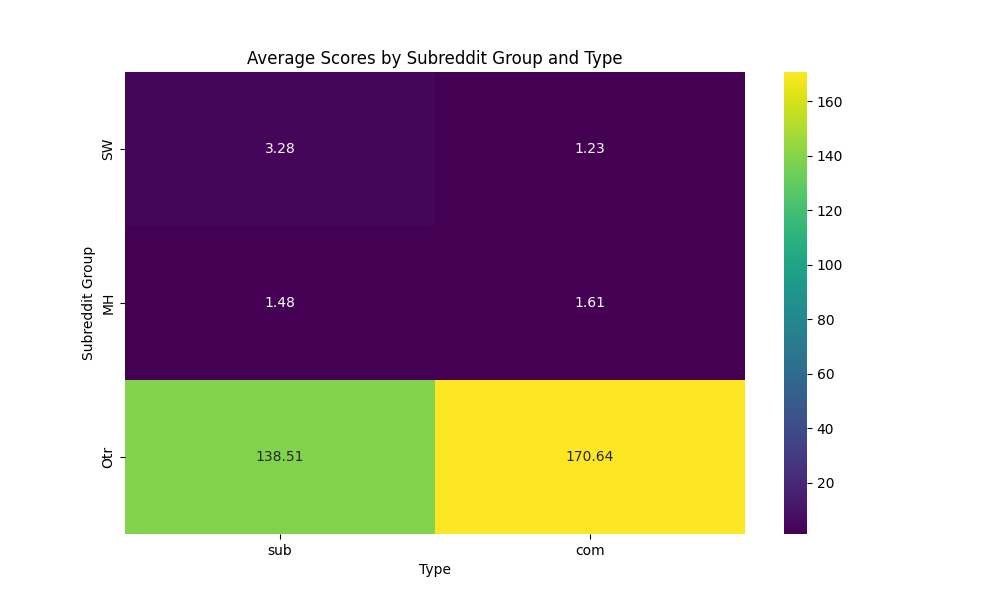
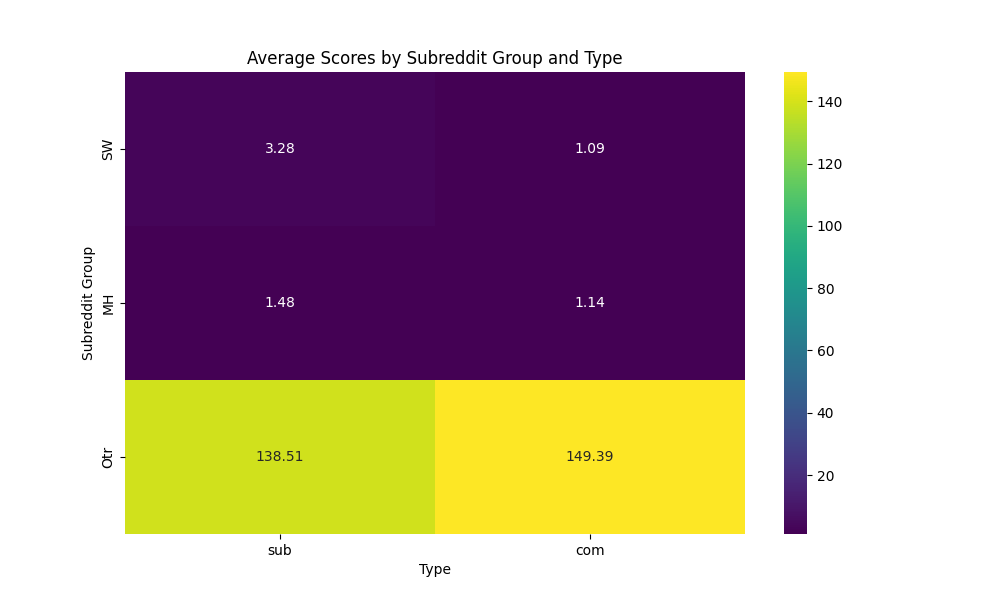
Readme update

diff --git a/analysis/step4_graph.py b/analysis/step4_graph.py
@@ -2,59 +2,74 @@ import pandas as pd
 from pymongo import MongoClient
 from tqdm import tqdm
 import os
-import seaborn as sns
-import matplotlib.pyplot as plt
 
 # MongoDB setup
 DB_NAME = 'reddit'
-COMMENTS_COLLECTION_NAME = 'filtered_comments_standard'
-SUBMISSIONS_COLLECTION_NAME = 'filtered_submissions_standard'
-USER_COLLECTION_NAME = 'filtered_submissions_standard'  # Collection containing target users
+COMMENTS_COLLECTION_NAME = 'stat_comments'
+SUBMISSIONS_COLLECTION_NAME = 'stat_submissions'
+USER_COLLECTION_NAME = 'stat_submissions'  # Updated collection name for users
 OUTPUT_DIR = "./step4/"
 BATCH_SIZE = 500  # Number of users to process in each batch
 
-# Scoring weights
+# Scoring weights and adjustments
 COMMENT_SCORE_WEIGHT = 1
 SUBMISSION_SCORE_WEIGHT = 1
 SUBMISSION_COMMENT_WEIGHT = 1
-REPEATED_COMMENT_MULTIPLIER = 9  # Multiplier for repeated comments on the same thread
+REPEATED_COMMENT_MULTIPLIER = 0
+ZERO_SCORE_COMMENT_ADJUSTMENT = 1
+ZERO_SCORE_SUBMISSION_ADJUSTMENT = -1
 
 client = MongoClient()
 db = client[DB_NAME]
-user_col = db[USER_COLLECTION_NAME]
 
-def fetch_target_users():
-    pipeline = [
-        {"$group": {"_id": "$author"}},
-        {"$limit": BATCH_SIZE}
-    ]
-    return [doc['_id'] for doc in user_col.aggregate(pipeline)]
+def fetch_target_users(user_group):
+    print(f"Connecting to DB... Accessing collection: {USER_COLLECTION_NAME}")
+    user_col = db[USER_COLLECTION_NAME]
+    try:
+        pipeline = [
+            {"$match": {"user_grp": user_group}},
+            {"$group": {"_id": "$author"}},
+            {"$limit": BATCH_SIZE}
+        ]
+        users = [doc['_id'] for doc in user_col.aggregate(pipeline)]
+        # print(f"Users fetched for group {user_group}: {users}")
+        return users
+    except Exception as e:
+        print(f"Error fetching users: {e}")
+        return []
 
 def process_comments(user, subreddit_grp, month):
+    month_regex = f"^{month}-"  # Ensure month is a string
     comments = db[COMMENTS_COLLECTION_NAME].find({
         "author": user,
         "subreddit_grp": subreddit_grp,
-        "created_day": {"$regex": f"^{month}-"}
+        "created_day": {"$regex": month_regex}
     })
     comment_scores = 0
     unique_thread_ids = set()
     for comment in comments:
-        comment_scores += comment['score'] * COMMENT_SCORE_WEIGHT
+        comment_score = comment.get('score', 0)  # Safely getting the score, default to 0 if not found
+        if comment_score == 0:
+            comment_score = 1 if comment.get('is_submitter', False) == False else -1
+
+        comment_scores += comment_score * COMMENT_SCORE_WEIGHT
         if comment['parent_id'] in unique_thread_ids:
-            comment_scores += comment['score'] * REPEATED_COMMENT_MULTIPLIER
+            comment_scores += comment_score * REPEATED_COMMENT_MULTIPLIER
         unique_thread_ids.add(comment['parent_id'])
     return comment_scores
 
 def process_submissions(user, subreddit_grp, month):
+    month_regex = f"^{month}-"  # Ensure month is a string
     submissions = db[SUBMISSIONS_COLLECTION_NAME].find({
         "author": user,
         "subreddit_grp": subreddit_grp,
-        "created_day": {"$regex": f"^{month}-"}
+        "created_day": {"$regex": month_regex}
     })
     submission_scores = 0
     for submission in submissions:
-        submission_scores += (submission['score'] * SUBMISSION_SCORE_WEIGHT +
-                              submission['num_comments'] * SUBMISSION_COMMENT_WEIGHT)
+        score = submission['score'] if submission['score'] != 0 else ZERO_SCORE_SUBMISSION_ADJUSTMENT
+        submission_scores += score * SUBMISSION_SCORE_WEIGHT
+        submission_scores += submission['num_comments'] * SUBMISSION_COMMENT_WEIGHT
     return submission_scores
 
 def calculate_scores_for_user(user):
@@ -76,19 +91,23 @@ def main():
     if not os.path.exists(OUTPUT_DIR):
         os.makedirs(OUTPUT_DIR)
 
-    target_users = fetch_target_users()
+    for user_group in ['SW', 'MH', 'Otr']:
+        print(f"Fetching users for group: {user_group}")
+        target_users = fetch_target_users(user_group)
 
-    all_scores = []
+        print(f"Found {len(target_users)} users in group {user_group}")
 
-    with tqdm(total=len(target_users), desc="Processing Users") as pbar:
-        for user in target_users:
-            user_scores = calculate_scores_for_user(user)  # This function will handle all available data
-            user_scores['author'] = user
-            all_scores.append(user_scores)
-            pbar.update(1)
+        all_scores = []
 
-    scores_df = pd.DataFrame(all_scores)
-    scores_df.to_csv(os.path.join(OUTPUT_DIR, "user_interaction_scores.csv"), index=False)
+        with tqdm(total=len(target_users), desc=f"Processing {user_group} Users") as pbar:
+            for user in target_users:
+                user_scores = calculate_scores_for_user(user)  # This function will handle all available data
+                user_scores['author'] = user
+                all_scores.append(user_scores)
+                pbar.update(1)
+
+        scores_df = pd.DataFrame(all_scores)
+        scores_df.to_csv(os.path.join(OUTPUT_DIR, f"user_interaction_scores_{user_group}.csv"), index=False)
 
 if __name__ == "__main__":
     main()

diff --git a/analysis/step4_visualize.py b/analysis/step4_visualize.py
@@ -26,22 +26,35 @@ def prepare_matrix_data(df):
 def prepare_time_data(df):
     # Melt the dataframe to long format
     df_melted = df.melt(id_vars=['author'], var_name='category', value_name='score')
-    
-    # Split the 'category' column into subreddit group, type, and year-month
+
+    # Convert 'score' to numeric, remove non-numeric entries
+    df_melted['score'] = pd.to_numeric(df_melted['score'], errors='coerce')
+    df_melted.dropna(subset=['score'], inplace=True)
+
+    # Print the first few rows of df_melted to check 'score' column
+    print("DataFrame after melting and score conversion:")
+    print(df_melted.head())
+
+    # Split the 'category' column into subreddit group, type, and year_month
     split_data = df_melted['category'].str.split('-', expand=True)
     df_melted['subreddit_grp'] = split_data[0]
     df_melted['type'] = split_data[1]
-    df_melted['year_month'] = split_data[2] + "-" + split_data[3]
+    df_melted['year_month'] = split_data[2] + '-' + split_data[3]
 
-    # Drop unnecessary columns
-    df_melted.drop(['author', 'category', 'type'], axis=1, inplace=True)
-    df_melted = df_melted.dropna(subset=['score'])
+    # Convert 'year_month' to datetime, remove invalid dates
+    df_melted['year_month'] = pd.to_datetime(df_melted['year_month'], format='%Y-%m', errors='coerce')
+    df_melted.dropna(subset=['year_month'], inplace=True)
 
-    # Convert 'year_month' to datetime
-    df_melted['year_month'] = pd.to_datetime(df_melted['year_month'], errors='coerce', format='%Y-%m').dt.to_period('M')
+    # Print the DataFrame before grouping
+    # print("DataFrame before grouping:")
+    # print(df_melted.head())
 
-    # Group by subreddit group and year-month, calculate the average score
-    grouped = df_melted.groupby(['subreddit_grp', 'year_month']).mean().reset_index()
+    # Group by subreddit group and year_month, calculate the average score
+    grouped = df_melted.groupby(['subreddit_grp', 'year_month'])['score'].mean().reset_index()
+
+    # Print the grouped data
+    # print("Grouped data:")
+    # print(grouped.head())
 
     return grouped
 
@@ -59,10 +72,11 @@ def create_matrix_plot(df):
 
 def create_time_wise_plot(df):
     plt.figure(figsize=(15, 7))
-    sns.lineplot(data=df, x='month', y='score', hue='subreddit_grp')
+    sns.lineplot(data=df, x='year_month', y='score', hue='subreddit_grp')
     plt.title("Average Scores Over Time by Subreddit Group")
     plt.ylabel("Average Score")
-    plt.xlabel("Month")
+    plt.xlabel("Year-Month")
+    # Save the plot
     plt.savefig(os.path.join(plot_dir, "time_wise_plot.png"))
 
 # Main function

diff --git a/README.md b/README.md
@@ -11,16 +11,28 @@ The Kaggle project, to classify reddit user by their subreddit only, could make 
 This kind of method, to classify T/F by submission text only, could not get full features of people who trying to end his life. For mor
 ### SNS user research(2016)
 Our further model partly refur to the method from 2016 research named "" which took a deep look into users of MH(Mental Health related subreddits) who moved to SW or not. They found out various user features with statistical method, including followings:
+#### POS Usage
+It was found that users who moved to SW from MH tend to use less ratio of nouns while more verbs, adverbs.
 #### Pronoun Usage
+It was found that users who moved to SW from MH more likely to use 1st singular pronouns(i.e. 'I') and 3rd person pronouns(i.e. 'he') more then others. 
 #### Frequent Word type
+According to the paper it was found users who moved from MH to SW tend to use particular words relatively more often then who not moved to SW.
 ## Integrated Model
 To overcome the previous problem of single post sentiment based models, we tried to get complex features from all-across reddit archive and integrate in single model to find out people who are in severe status effectively. To achieve the goal we tried various analysis methods for given data and found out some useful features to integrate.
 ## Analysis Methods We used
 We integrated four metrics to analyze each users active patterns with methods below:
 ### Sentiment Score
+This score metrics corresponds to existing metrics with normal sentiment analysis. However, we tried to give each activity a sentimetal temperature and tried to ditinguish and track for their timeline to get sentimantal delta.
+#### Detailed Metrics(Temp ver.)
 ### Language Structure Score
+Based on the 2016 studies of Reddit users we tried to check if those also applied for other types of users, and tried to integrate those lingual structures informations in the model of language structures, including POS, pronouns, keywords, text length, and so on.
+#### Detailed Metrics(Temp ver.)
 ### Active Pattern Score
+To figure out if users show different patterns of activity throughout the reddit, we tried to make time-window methods to numeralize those in degree of danger.
+#### Detailed Metrics(Temp ver.)
 ### Communication Score
+It is well known that those who are well going with communication with others has less danger of suicidal decision/execution, opposite not. Based on this idea we tried to make scores that could represent each users' degrees of commiting suicide.
+#### Detailed Metrics(Temp ver.)
 
 Due to the lack of computation, we constrainted our methods into 4, and integrated by summ up with weights for each normalized scores.
 
@@ -29,3 +41,25 @@ To test our model performance we tried some competetion for our new model and pr
 ### (TBD)
 ### Result
 
+## Structure of the Repo
+This repo contains all code files that made from performing the project, except only that contains particularly sensitive information or too large to upload. We run the code from following local machine so it could contain some locale dir that optimized to.
+### About Machine
+Our machine run at local with following specifics:
+
+OS: Ubuntu server 20.04(LTS)
+
+CPU: intel i9-9900k
+
+Memory/Swap: 64G DDR4/128G SSD(part of root disk) each
+
+Storage: 6.4T for root(/), mounted disk 3.84T(SSD1), 2T(SSD2), 1T(SSD3), 16T(HDD1), 6T(HDD2)
+
+GPU: NVIDIA RTX 4090(24G VRAM)
+
+### Directory
+
+#### ./data
+#### ./DBProcess
+#### ./models
+#### ./analysis
+#### Others
